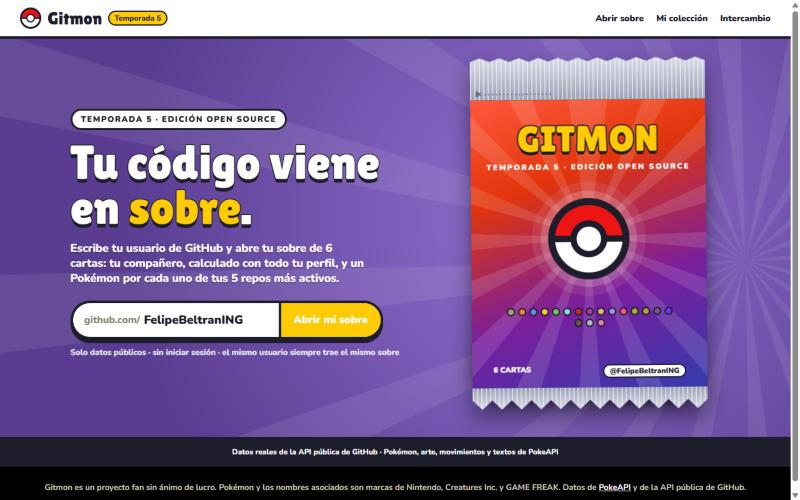
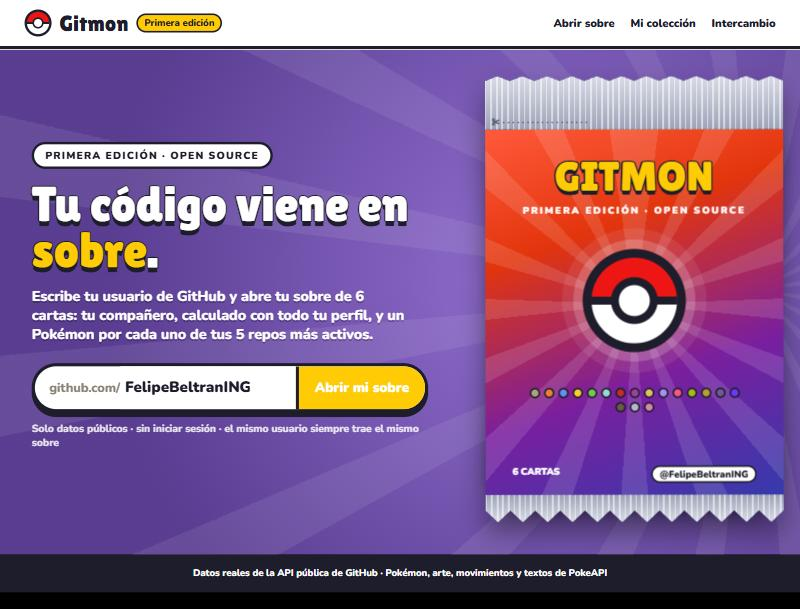
docs: README, ADR 0002 y capturas con la primera edición

diff --git a/README.md b/README.md
@@ -7,7 +7,7 @@
 Escribe tu usuario de GitHub y abre un sobre de 6 cartas Pokémon:
 tu **compañero**, calculado con todo tu perfil, y un Pokémon por cada uno de tus **5 repos más activos**.
 
-![Temporada 5](https://img.shields.io/badge/temporada-5-7B4FC9?style=flat-square)
+![Primera edición](https://img.shields.io/badge/edici%C3%B3n-primera-7B4FC9?style=flat-square)
 [![CI](https://github.com/FelipeBeltranING/gitmon/actions/workflows/ci.yml/badge.svg)](https://github.com/FelipeBeltranING/gitmon/actions/workflows/ci.yml)
 ![PokeAPI](https://img.shields.io/badge/datos-PokeAPI-EF5350?style=flat-square)
 ![Licencia MIT](https://img.shields.io/badge/licencia-MIT-FFCB05?style=flat-square)
@@ -25,7 +25,7 @@ tu **compañero**, calculado con todo tu perfil, y un Pokémon por cada uno de t
 
 | Sobre | Colección |
 |---|---|
-| <img src="docs/capturas/1-sobre.jpg" alt="Sobre cerrado de la temporada 5" width="420"> | <img src="docs/capturas/3-coleccion.jpg" alt="Colección de 6 cartas" width="420"> |
+| <img src="docs/capturas/1-sobre.jpg" alt="Sobre cerrado de la primera edición" width="420"> | <img src="docs/capturas/3-coleccion.jpg" alt="Colección de 6 cartas" width="420"> |
 
 ## Cómo se elige cada carta
 
@@ -33,7 +33,7 @@ tu **compañero**, calculado con todo tu perfil, y un Pokémon por cada uno de t
 - **Stats**: seis señales de tu perfil (repos × años, commits, forks, estrellas, seguidores y días activos) en escala logarítmica de 10 a 160.
 - **Pokémon**: de la PokeAPI salen los Pokémon de tu tipo; gana el que más se parece en *forma* a tus stats (similitud coseno) sin pasarse de tu etapa.
 - **Ataques**: tus repos con más estrellas (daño = 30 + 6·√estrellas) y un movimiento real del Pokémon, en español.
-- **Temporada**: una semilla global decide qué Pokémon de tu tipo te toca. Mismo usuario + misma temporada = mismo sobre, siempre.
+- **Edición**: una semilla global decide qué Pokémon de tu tipo te toca. Mismo usuario + misma edición = mismo sobre, siempre.
 
 El detalle completo, con fórmulas, está en [docs/algoritmo.md](docs/algoritmo.md).
 
@@ -46,7 +46,7 @@ npm test           # pruebas del núcleo con Vitest
 npm run build      # tipos + build de producción en dist/
 ```
 
-Previsualiza otra temporada con `?t=4` y abre directamente un sobre con `/u/<usuario>`.
+Prueba otra semilla con `?t=4` y abre directamente un sobre con `/u/<usuario>`.
 
 ### Variables de entorno
 
@@ -75,7 +75,7 @@ docs/                concepto, bocetos, decisiones (ADR) y capturas
 
 - [Concepto v0](docs/concepto-v0.md) y sus [bocetos originales](docs/bocetos/v0/).
 - [Bocetos v1](docs/bocetos/v1/): tres direcciones pokemaníacas (Pokédex, Combate, Carta holo), un híbrido y el sobre final.
-- Decisiones: [0001 · Carta coleccionable](docs/adr/0001-direccion-carta.md) · [0002 · Temporadas](docs/adr/0002-temporadas.md) · [0003 · Ritmo por días](docs/adr/0003-ritmo-por-dias.md).
+- Decisiones: [0001 · Carta coleccionable](docs/adr/0001-direccion-carta.md) · [0002 · Ediciones con semilla global](docs/adr/0002-temporadas.md) · [0003 · Ritmo por días](docs/adr/0003-ritmo-por-dias.md).
 
 ## Créditos
 

diff --git a/docs/adr/0002-temporadas.md b/docs/adr/0002-temporadas.md
@@ -16,6 +16,10 @@ Añadir una **temporada** que sala todas las semillas: `FNV-1a("T<n>:" + clave)`
 - Se lanza con la **temporada 5** (`src/config.ts`), elegida tras comparar 12 temporadas con perfiles reales ([captura](../bocetos/v1/capturas/temporadas.jpg)).
 - `?t=<n>` previsualiza otra temporada sin desplegar.
 
+## Actualización · 2026-11-20
+
+Al salir a producción, «Temporada 5» confundía: el sitio acababa de nacer y parecía que faltaban cuatro temporadas. La semilla interna sigue siendo `5` (nadie pierde su sobre), pero en la interfaz se presenta como **Primera edición**, un guiño a las cartas de 1ª edición. `?t=<n>` se muestra como «Prueba · semilla n». La próxima renovación se anunciará como «Segunda edición».
+
 ## Consecuencias
 
 - Cambiar de temporada reparte sobres nuevos a todos a la vez: se anuncia con un release.

diff --git a/docs/algoritmo.md b/docs/algoritmo.md
@@ -44,7 +44,7 @@ semilla(clave) = FNV-1a(clave)                 en la temporada 1
 semilla(clave) = FNV-1a("T<temporada>:" + clave) en las demás
 ```
 
-La clave del compañero es el usuario; la de cada repo, `usuario/repo`. Variocolor si `semilla mod 4096 = 0`.
+La semilla activa es `5` y se presenta como **Primera edición**. La clave del compañero es el usuario; la de cada repo, `usuario/repo`. Variocolor si `semilla mod 4096 = 0`.
 
 ## 4. Cartas (`pack.ts`, `rarity.ts`)
 
